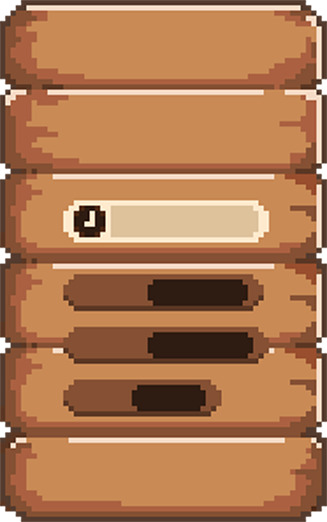
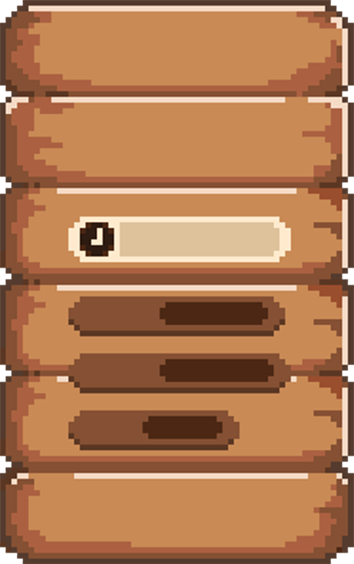
แก้หน้า Checking จ้า

diff --git a/OOP/src/Checkingpage.java b/OOP/src/Checkingpage.java
@@ -42,20 +42,21 @@ public class Checkingpage extends javax.swing.JFrame {
         setDefaultCloseOperation(javax.swing.WindowConstants.EXIT_ON_CLOSE);
         setTitle("Checking");
         setAutoRequestFocus(false);
-        setBounds(new java.awt.Rectangle(0, 25, 330, 550));
-        setMaximumSize(new java.awt.Dimension(330, 550));
-        setMinimumSize(new java.awt.Dimension(330, 550));
-        setPreferredSize(new java.awt.Dimension(330, 550));
+        setBounds(new java.awt.Rectangle(0, 25, 300, 500));
+        setMaximumSize(new java.awt.Dimension(300, 500));
+        setMinimumSize(new java.awt.Dimension(300, 500));
+        setPreferredSize(new java.awt.Dimension(300, 500));
         setResizable(false);
+        setSize(new java.awt.Dimension(300, 500));
         getContentPane().setLayout(new org.netbeans.lib.awtextra.AbsoluteLayout());
 
         jLabel13.setFont(new java.awt.Font("Helvetica Neue", 0, 16)); // NOI18N
         jLabel13.setForeground(new java.awt.Color(255, 255, 255));
         jLabel13.setHorizontalAlignment(javax.swing.SwingConstants.CENTER);
         jLabel13.setText("Fill Score");
-        getContentPane().add(jLabel13, new org.netbeans.lib.awtextra.AbsoluteConstraints(120, 460, 90, 20));
+        getContentPane().add(jLabel13, new org.netbeans.lib.awtextra.AbsoluteConstraints(100, 430, 100, 20));
 
-        confirmButton.setIcon(new javax.swing.ImageIcon("OOP/src/Image/confirmButton.png")); // NOI18N
+        confirmButton.setIcon(new javax.swing.ImageIcon(getClass().getResource("/confirmButton.png"))); // NOI18N
         confirmButton.setBorderPainted(false);
         confirmButton.setContentAreaFilled(false);
         confirmButton.addActionListener(new java.awt.event.ActionListener() {
@@ -63,68 +64,68 @@ public class Checkingpage extends javax.swing.JFrame {
                 confirmButtonActionPerformed(evt);
             }
         });
-        getContentPane().add(confirmButton, new org.netbeans.lib.awtextra.AbsoluteConstraints(104, 450, 120, 40));
+        getContentPane().add(confirmButton, new org.netbeans.lib.awtextra.AbsoluteConstraints(90, 420, 120, 40));
 
-        lab_l.setFont(new java.awt.Font("Helvetica Neue", 0, 18)); // NOI18N
+        lab_l.setFont(new java.awt.Font("Helvetica Neue", 0, 16)); // NOI18N
         lab_l.setForeground(new java.awt.Color(255, 255, 255));
         lab_l.setHorizontalAlignment(javax.swing.SwingConstants.CENTER);
         lab_l.setText("9");
-        getContentPane().add(lab_l, new org.netbeans.lib.awtextra.AbsoluteConstraints(140, 387, 60, -1));
+        getContentPane().add(lab_l, new org.netbeans.lib.awtextra.AbsoluteConstraints(130, 350, 50, 30));
 
         jLabel10.setFont(new java.awt.Font("Helvetica Neue", 0, 18)); // NOI18N
         jLabel10.setForeground(new java.awt.Color(234, 211, 177));
         jLabel10.setText("Lab");
-        getContentPane().add(jLabel10, new org.netbeans.lib.awtextra.AbsoluteConstraints(80, 380, 40, 30));
+        getContentPane().add(jLabel10, new org.netbeans.lib.awtextra.AbsoluteConstraints(80, 350, 40, 30));
 
         std_l.setFont(new java.awt.Font("Helvetica Neue", 0, 14)); // NOI18N
         std_l.setForeground(new java.awt.Color(255, 255, 255));
         std_l.setText("std");
-        getContentPane().add(std_l, new org.netbeans.lib.awtextra.AbsoluteConstraints(160, 330, 90, 30));
+        getContentPane().add(std_l, new org.netbeans.lib.awtextra.AbsoluteConstraints(140, 300, 90, 30));
 
         jLabel8.setFont(new java.awt.Font("Helvetica Neue", 0, 18)); // NOI18N
         jLabel8.setForeground(new java.awt.Color(234, 211, 177));
         jLabel8.setText("STD_ID");
-        getContentPane().add(jLabel8, new org.netbeans.lib.awtextra.AbsoluteConstraints(80, 330, -1, 30));
+        getContentPane().add(jLabel8, new org.netbeans.lib.awtextra.AbsoluteConstraints(70, 300, -1, 30));
 
         name_l.setFont(new java.awt.Font("Helvetica Neue", 0, 14)); // NOI18N
         name_l.setForeground(new java.awt.Color(255, 255, 255));
         name_l.setText("name");
-        getContentPane().add(name_l, new org.netbeans.lib.awtextra.AbsoluteConstraints(160, 282, 80, 20));
+        getContentPane().add(name_l, new org.netbeans.lib.awtextra.AbsoluteConstraints(140, 250, 80, 30));
 
         jLabel6.setFont(new java.awt.Font("Helvetica Neue", 0, 18)); // NOI18N
         jLabel6.setForeground(new java.awt.Color(234, 211, 177));
         jLabel6.setText("Name");
-        getContentPane().add(jLabel6, new org.netbeans.lib.awtextra.AbsoluteConstraints(80, 280, -1, -1));
+        getContentPane().add(jLabel6, new org.netbeans.lib.awtextra.AbsoluteConstraints(80, 260, -1, -1));
 
         jLabel5.setFont(new java.awt.Font("Helvetica Neue", 0, 24)); // NOI18N
         jLabel5.setForeground(new java.awt.Color(255, 255, 255));
         jLabel5.setHorizontalAlignment(javax.swing.SwingConstants.CENTER);
         jLabel5.setText("25");
-        getContentPane().add(jLabel5, new org.netbeans.lib.awtextra.AbsoluteConstraints(6, 140, 320, 30));
+        getContentPane().add(jLabel5, new org.netbeans.lib.awtextra.AbsoluteConstraints(6, 130, 290, 40));
 
         jLabel4.setFont(new java.awt.Font("Helvetica Neue", 2, 24)); // NOI18N
         jLabel4.setForeground(new java.awt.Color(124, 76, 37));
         jLabel4.setHorizontalAlignment(javax.swing.SwingConstants.CENTER);
         jLabel4.setText("17:00:30");
-        getContentPane().add(jLabel4, new org.netbeans.lib.awtextra.AbsoluteConstraints(110, 200, 140, 40));
+        getContentPane().add(jLabel4, new org.netbeans.lib.awtextra.AbsoluteConstraints(100, 190, 140, 30));
 
         Computer.setHorizontalAlignment(javax.swing.SwingConstants.CENTER);
-        Computer.setIcon(new javax.swing.ImageIcon("OOP/src/Image/checking-2.png")); // NOI18N
+        Computer.setIcon(new javax.swing.ImageIcon(getClass().getResource("/checking-2.png"))); // NOI18N
         Computer.setMaximumSize(new java.awt.Dimension(130, 100));
-        getContentPane().add(Computer, new org.netbeans.lib.awtextra.AbsoluteConstraints(0, 50, 330, 90));
+        getContentPane().add(Computer, new org.netbeans.lib.awtextra.AbsoluteConstraints(0, 40, 300, 100));
 
         jLabel2.setFont(new java.awt.Font("Helvetica Neue", 2, 18)); // NOI18N
         jLabel2.setForeground(new java.awt.Color(71, 42, 24));
         jLabel2.setHorizontalAlignment(javax.swing.SwingConstants.CENTER);
         jLabel2.setText("Checking");
         jLabel2.setToolTipText("");
-        getContentPane().add(jLabel2, new org.netbeans.lib.awtextra.AbsoluteConstraints(0, 10, 330, 40));
+        getContentPane().add(jLabel2, new org.netbeans.lib.awtextra.AbsoluteConstraints(0, 10, 300, 30));
 
-        jLabel3.setIcon(new javax.swing.ImageIcon("OOP/src/Image/clockWood.png")); // NOI18N
+        jLabel3.setIcon(new javax.swing.ImageIcon(getClass().getResource("/clockWood.png"))); // NOI18N
         jLabel3.setAlignmentY(0.0F);
         jLabel3.setIconTextGap(5);
         getContentPane().add(jLabel3, new org.netbeans.lib.awtextra.AbsoluteConstraints(0, 0, -1, -1));
-        setLocationRelativeTo(null);
+
         pack();
     }// </editor-fold>
 
